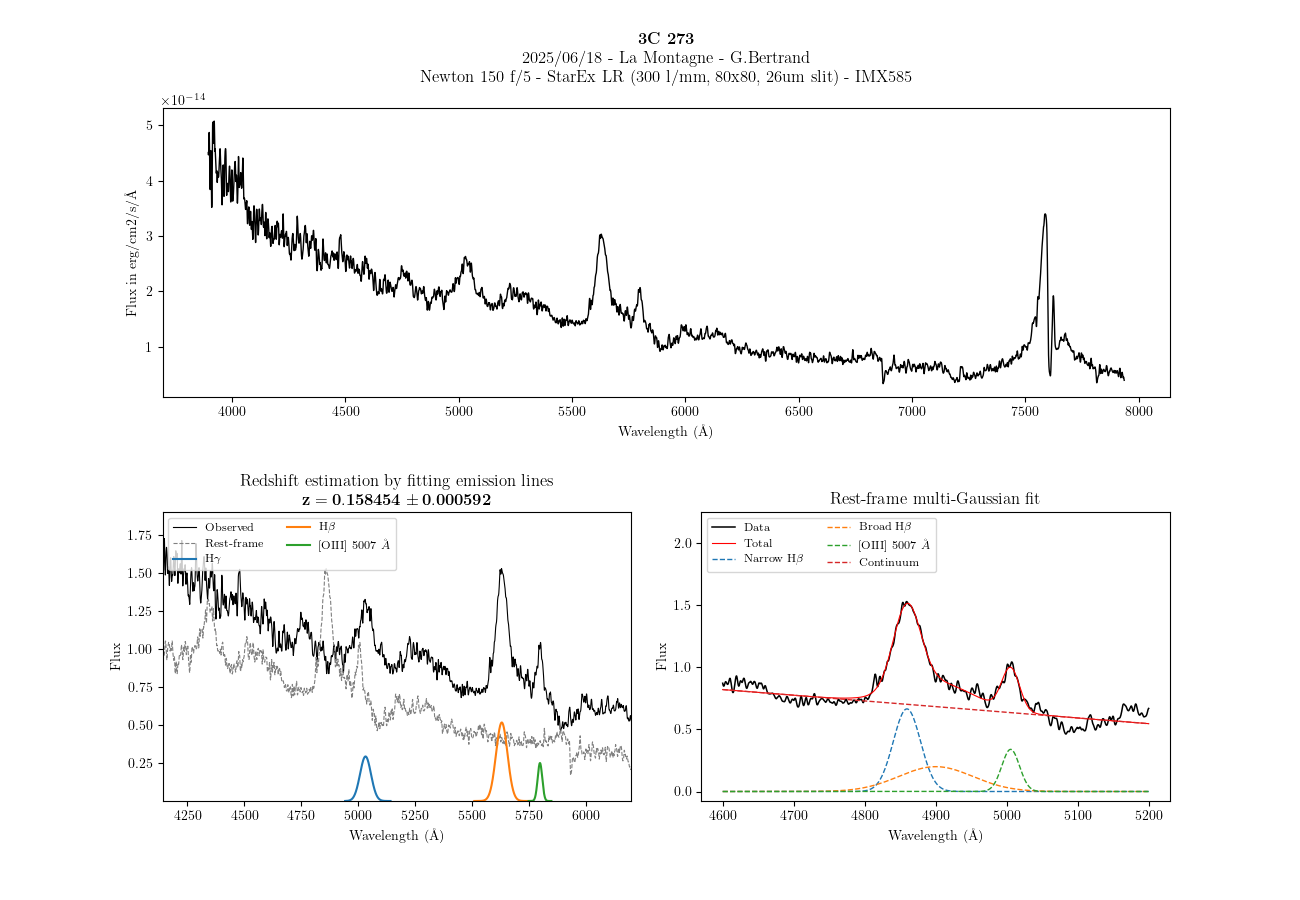
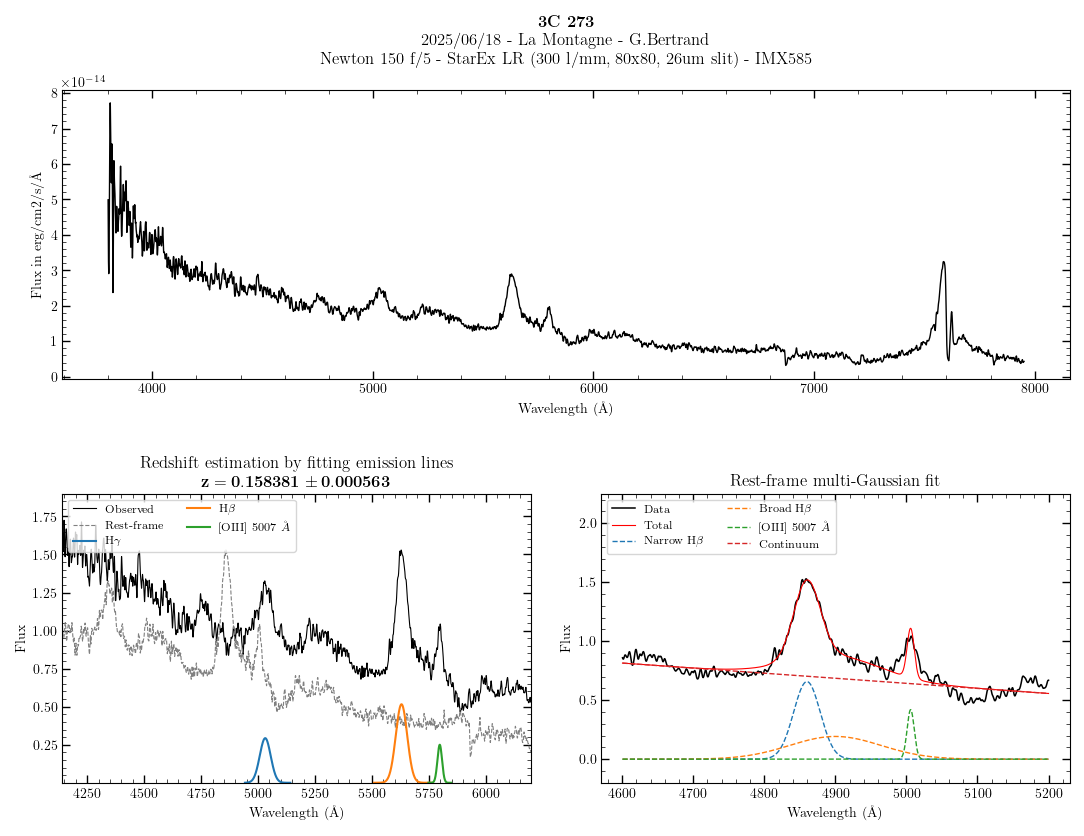
update

diff --git a/agn_analyzer.py b/agn_analyzer.py
@@ -37,6 +37,7 @@ class AGNAnalyzer:
         self.monte_carlo_runs = config.get("monte_carlo_runs", 100)
         self.output_file = config.get("output_file", f"{self.object_name}.png")
         self.z_plot_margin = config.get("z_plot_margin", [200, 400])
+        self.broad_hbeta_bounds = config.get("broad_hbeta_bounds", (5, None))
 
         self.spectrum = Spectrum1D.read(self.spectrum_path, format='wcs1d-fits')
         self.spectrum_abs = Spectrum1D.read(self.spectrum_abs_path, format='wcs1d-fits')
@@ -164,15 +165,19 @@ class AGNAnalyzer:
         O3_2 = 5007
 
         # Create Gaussian1D models for each of the H-beta and [OIII] lines.
-        hbeta_broad = models.Gaussian1D( mean=Hbeta, stddev=10)
+        initial_stddev = 10 if self.broad_hbeta_bounds and self.broad_hbeta_bounds[0] <= 10 else self.broad_hbeta_bounds[0]
+        hbeta_broad = models.Gaussian1D( mean=Hbeta, stddev=initial_stddev)
         hbeta_broad.mean.bounds = (4800, 4900)
-        hbeta_broad.amplitude.bounds = (0.2, None)
+        hbeta_broad.amplitude.bounds = (0.1, None)
+        hbeta_broad.stddev.bounds = self.broad_hbeta_bounds
         hbeta_narrow = models.Gaussian1D(mean=Hbeta, stddev=5)
         hbeta_narrow.mean.bounds = (4851, 4871) 
         hbeta_narrow.amplitude.bounds = (0, None)
         
         o3_1 = models.Gaussian1D(amplitude=0.25, mean=O3_1, stddev=5)
         o3_2 = models.Gaussian1D(amplitude=0.25, mean=O3_2, stddev=5)
+        o3_1.stddev.bounds = (None, 5)
+        o3_2.stddev.bounds = (None, 5)
 
         # Create a polynomial model to fit the continuum.
         mean_flux = flux.mean()
@@ -436,19 +441,29 @@ class AGNAnalyzer:
         ax1.set_ylim(ymin1, ymax1)
 
         ymin2, ymax2 = ax2.get_ylim()
-        ax2.set_ylim(ymin2, ymax2 * 1.4)
+        ax2.set_ylim(-0.2, ymax2 * 1.4)
 
         ax1.legend(ncol=2,fontsize='small', loc='upper left', bbox_to_anchor=(0, 1))
         ax2.legend(ncol=2, fontsize='small', loc='upper left', bbox_to_anchor=(0, 1))
 
+        for ax in [ax0, ax1, ax2]:
+            ax.minorticks_on()
+            ax.tick_params(axis='both', which='major',
+                        direction='in', top=True, right=True,
+                        length=6, width=1)
+            ax.tick_params(axis='both', which='minor',
+                        direction='in', top=True, right=True,
+                        length=3, width=0.5)
+
+
         plt.tight_layout()
-        plt.savefig(self.output_file)
+        plt.savefig(self.output_file, bbox_inches='tight', pad_inches=0.15)
         plt.show()
 
         fwhm_kms = self.gaussian_fwhm_in_velocity(fit, fitter)
         fwhm_inst = self.fwhm_instr_from_R(centers[0])
         fwhm_intrinsic = np.sqrt(fwhm_kms**2 - fwhm_inst**2)
-
+      
         log_M1, M1, d1 = self.calculate_mbh(flux_5100, fwhm_intrinsic, mean_z, method='vestergaard')
         log_M2, M2, d2 = self.calculate_mbh(flux_5100, fwhm_intrinsic, mean_z, method='feng')
 
@@ -461,7 +476,7 @@ class AGNAnalyzer:
         err_M2 = self.error_on_mass(log_M2, err_logM_f)
         print(f"Object: {self.object_name}")
         print(f"z = {mean_z:.6f} ± {sigma_z:.6f}")
-        print(f"FWHM = {fwhm_kms:.1f} ± {0:.1f} km/s, corrected: {fwhm_intrinsic:.1f}")
+        print(f"FWHM = {fwhm_kms:.3f} ± {fwhm_std:.3f} km/s, corrected: {fwhm_intrinsic:.1f} ± {fwhm_std:.3f}")
         print(f"Flux: {self.format_with_error(flux, flux_err)}")
         print('--- Method 1 : Vestergaard ---')
         print(f"log(M_BH) = {self.format_with_error(log_M1, err_logM_v)}")

diff --git a/ngc5548.py b/ngc5548.py
@@ -1,0 +1,4 @@
+from agn_analyzer import AGNAnalyzer
+
+analyzer = AGNAnalyzer("ngc5548.json")
+analyzer.analyze()
